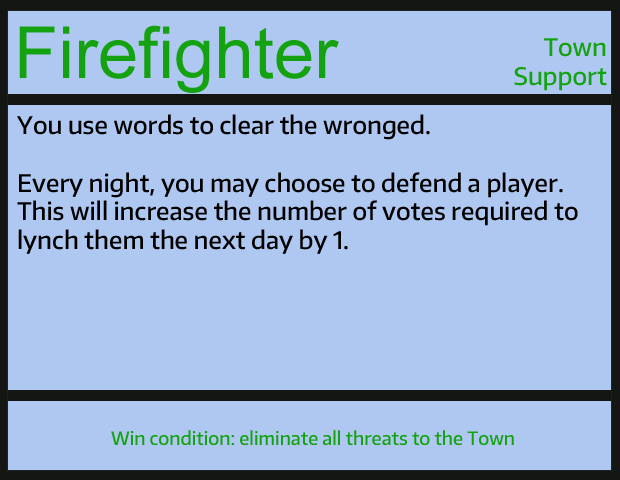
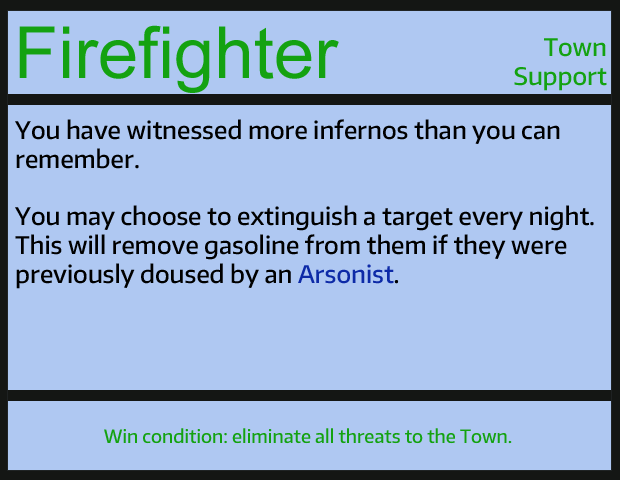
[re/factor] roles and changes

Changed region(s): [[0.0, 0.25, 0.95, 0.5938], [0.1532, 0.875, 0.8274, 0.9375]]

diff --git a/roles/arsonist/game_commands/douse.js b/roles/arsonist/game_commands/douse.js
@@ -10,36 +10,36 @@ module.exports = function (game, message, params) {
   // Run checks, etc
 
   if (params[0] === undefined) {
-    message.channel.send(":x: Wrong syntax! Please use `" + config["command-prefix"] + "attack <alphabet/username/nobody>` instead!");
+    message.channel.send(":x: Wrong syntax! Please use `" + config["command-prefix"] + "douse <alphabet/username/nobody>` instead!");
     return null;
   };
 
   var to = game.getPlayerMatch(params[0]);
 
-  actions.delete(x => x.from === message.author.id && x.identifier === "serial_killer/attack");
+  actions.delete(x => x.from === message.author.id && (x.identifier === "arsonist/douse" || x.identifier === "arsonist/ignite"));
 
   if (to.score > 0.7 || params[0].toLowerCase() === "nobody") {
-    message.channel.send(":knife: You have decided not to attack anyone tonight.");
+    message.channel.send(":oil: You have decided not to douse anyone tonight nor ignite.");
     return null;
   };
 
   to = to.player;
 
   if (!to.isAlive()) {
-    message.channel.send(":x: You cannot attack a dead player!" + rs.misc.sarcasm(true));
+    message.channel.send(":x: You cannot douse a dead player!" + rs.misc.sarcasm(true));
     return null;
   };
 
   if (to.id === message.author.id) {
 
-    message.channel.send(":x: You cannot attack yourself!" + rs.misc.sarcasm(true));
+    message.channel.send(":x: You cannot douse yourself!" + rs.misc.sarcasm(true));
 
     return null;
 
   } else {
 
-    game.addAction("serial_killer/attack", ["cycle"], {
-      name: "SK-attack",
+    game.addAction("arsonist/douse", ["cycle"], {
+      name: "Arsonist-douse",
       expiry: 1,
       from: message.author.id,
       to: to.id
@@ -49,7 +49,7 @@ module.exports = function (game, message, params) {
 
   };
 
-  message.channel.send(":knife: You have decided to attack **" + mention + "** tonight.");
+  message.channel.send(":oil: You have decided to douse **" + mention + "** tonight.");
 
 };
 

diff --git a/roles/firefighter/game_commands/extinguish.js b/roles/firefighter/game_commands/extinguish.js
@@ -1,0 +1,38 @@
+var rs = require("../../../rolesystem/rolesystem.js");
+
+module.exports = function (game, message, params) {
+
+  var actions = game.actions;
+
+  // Run checks, etc
+
+  if (params[0] === undefined) {
+    message.channel.send(":x: Wrong syntax! Please use `" + config["command-prefix"] + "extinguish <alphabet/username/nobody>` instead!");
+    return null;
+  };
+
+  var to = game.getPlayerMatch(params[0]);
+
+  actions.delete(x => x.from === message.author.id && x.identifier === "firefighter/extinguish");
+
+  if (to.score > 0.7 || params[0].toLowerCase() === "nobody") {
+    message.channel.send(":fire_engine: You have decided to extinguish nobody tonight.");
+    return null;
+  };
+
+  to = to.player;
+
+  if (to.id === message.author.id) {
+    message.channel.send(":fire_engine: You have decided to extinguish **yourself** tonight.");
+  } else {
+    message.channel.send(":fire_engine: You have decided to extinguish **" + to.getDisplayName() + "** tonight.")
+  };
+
+  game.addAction("firefighter/extinguish", ["cycle"], {
+    name: "Firefighter-extinguish",
+    expiry: 1,
+    from: message.author.id,
+    to: to.id
+  });
+
+};

diff --git a/roles/doctor/game_commands/heal.js b/roles/doctor/game_commands/heal.js
@@ -15,8 +15,9 @@ module.exports = function (game, message, params) {
 
   var to = game.getPlayerMatch(params[0]);
 
-  if (to.score > 3 || params[0].toLowerCase() === "nobody") {
-    actions.delete(x => x.from === message.author.id && (x.identifier === "doctor/doc_protect" || x.identifier === "doctor/doc_protect_self"));
+  actions.delete(x => x.from === message.author.id && (x.identifier === "doctor/doc_protect" || x.identifier === "doctor/doc_protect_self"));
+
+  if (to.score > 0.7 || params[0].toLowerCase() === "nobody") {
     message.channel.send(":syringe: You have decided to protect nobody tonight.");
     return null;
   };
@@ -27,8 +28,6 @@ module.exports = function (game, message, params) {
     message.channel.send(":x: You cannot heal a dead player!" + rs.misc.sarcasm(true));
     return null;
   };
-
-  actions.delete(x => x.from === message.author.id && (x.identifier === "doctor/doc_protect" || x.identifier === "doctor/doc_protect_self"));
 
   if (to.id === message.author.id) {
     // Do stuff

diff --git a/roles/arsonist/game_commands/ignite.js b/roles/arsonist/game_commands/ignite.js
@@ -1,0 +1,33 @@
+// Register heal
+
+var rs = require("../../../rolesystem/rolesystem.js");
+
+module.exports = function (game, message, params) {
+
+  var actions = game.actions;
+  var config = game.config;
+
+  actions.delete(x => x.from === message.author.id && (x.identifier === "arsonist/douse" || x.identifier === "arsonist/ignite"));
+
+  message.channel.send(":fire: You have decided to ignite tonight.");
+
+  /*Ignition runs at a much higher priority
+  - this is to allow Firefighter to possibly extinguish target
+  first */
+  
+  game.addAction("arsonist/ignite", ["cycle"], {
+    name: "Arsonist-ignition",
+    expiry: 1,
+    from: message.author.id,
+    to: message.author.id,
+    priority: 8
+  });
+
+};
+
+module.exports.ALLOW_NONSPECIFIC = false;
+module.exports.PRIVATE_ONLY = true;
+module.exports.DEAD_CANNOT_USE = true;
+module.exports.ALIVE_CANNOT_USE = false;
+module.exports.DISALLOW_DAY = true;
+module.exports.DISALLOW_NIGHT = false;

diff --git a/roles/arsonist/actionables/ignite.js b/roles/arsonist/actionables/ignite.js
@@ -1,0 +1,26 @@
+var rs = require("../../../rolesystem/rolesystem.js");
+
+module.exports = function (actionable, game, params) {
+
+  // Self-visit
+  game.execute("visit", {visitor: actionable.from,
+    target: actionable.to,
+    priority: actionable.priority,
+    reason: "Arsonist-ignition"});
+
+  // Get all ignited players
+  var doused = game.findAll(x => x.misc.doused === true && x.isAlive());
+
+  for (var i = 0; i < doused.length; i++) {
+
+    rs.prototypes.unstoppableAttack.reason = "__annihilated__ in an Arsonist's fire";
+    var outcome = rs.prototypes.unstoppableAttack({to: doused[i].identifier, from: actionable.from, tags:["astral"]}, game, params, true);
+
+    if (!outcome) {
+      game.addMessage(from, ":exclamation: " + doused[i].getDisplayName() + " survived the fire!");
+    };
+
+  };
+
+
+};

diff --git a/roles/firefighter/actionables/extinguish.js b/roles/firefighter/actionables/extinguish.js
@@ -1,0 +1,24 @@
+var rs = require("../../../rolesystem/rolesystem.js");
+
+module.exports = function (actionable, game, params) {
+
+  // Send visit
+  game.execute("visit", {visitor: actionable.from,
+    target: actionable.to,
+    priority: actionable.priority,
+    reason: "Arsonist-ignition"});
+
+  // Remove douse
+  var extinguisher = game.getPlayerByIdentifier(actionable.from);
+  var target = game.getPlayerByIdentifier(actionable.to);
+
+  if (target.misc.doused === true) {
+
+    target.misc.doused = false;
+
+    // Is doused
+    game.addMessage(extinguisher, ":exclamation: You managed to remove gasoline from your target!");
+    game.addMessage(target, ":exclamation: Someone extinguished you last night and removed gasoline from you!");
+  };
+
+};

diff --git a/roles/doctor/general/routines.js b/roles/doctor/general/routines.js
@@ -12,7 +12,7 @@ module.exports = function (player) {
   // Nighttime actions
   var channel = player.getPrivateChannel();
 
-  channel.send(":pill: You may choose to heal a player tonight.\n\nYou have __" + player.misc.doc_self_heals + "__ self-heal" + auxils.vocab("s", player.misc.doc_self_heals) + " left.\n\nUse `" + config["command-prefix"] + "heal <alphabet/name>` to select your target.");
+  channel.send(":pill: You may choose to heal a player tonight.\n\nYou have __" + player.misc.doc_self_heals + "__ self-heal" + auxils.vocab("s", player.misc.doc_self_heals) + " left.\n\nUse `" + config["command-prefix"] + "heal <alphabet/name/nobody>` to select your target.");
 
 };
 

diff --git a/rolesystem/rolesystem_prototypes/powerfulAttack.js b/rolesystem/rolesystem_prototypes/powerfulAttack.js
@@ -6,7 +6,7 @@ module.exports = function (actionable, game, params, astral=false) {
     game.execute("attacked", {attacker: actionable.from,
       target: actionable.to,
       priority: actionable.priority,
-      strength: 1,
+      strength: 2,
       reason: module.exports.reason,
       secondary_reason: module.exports.secondary_reason});
 
@@ -19,7 +19,7 @@ module.exports = function (actionable, game, params, astral=false) {
 
   var stat = attacked.getStat("basic-defense", Math.max);
 
-  if (stat < 1) {
+  if (stat < 2) {
     // Kill the player
     game.kill(attacked, module.exports.reason, module.exports.secondary_reason);
     return true;

diff --git a/rolesystem/rolesystem_prototypes/unstoppableAttack.js b/rolesystem/rolesystem_prototypes/unstoppableAttack.js
@@ -6,7 +6,7 @@ module.exports = function (actionable, game, params, astral=false) {
     game.execute("attacked", {attacker: actionable.from,
       target: actionable.to,
       priority: actionable.priority,
-      strength: 1,
+      strength: 3,
       reason: module.exports.reason,
       secondary_reason: module.exports.secondary_reason});
 
@@ -19,7 +19,7 @@ module.exports = function (actionable, game, params, astral=false) {
 
   var stat = attacked.getStat("basic-defense", Math.max);
 
-  if (stat < 1) {
+  if (stat < 3) {
     // Kill the player
     game.kill(attacked, module.exports.reason, module.exports.secondary_reason);
     return true;

diff --git a/roles/arsonist/general/routines.js b/roles/arsonist/general/routines.js
@@ -12,7 +12,7 @@ module.exports = function (player) {
   // Nighttime actions
   var channel = player.getPrivateChannel();
 
-  channel.send(":oil: You may choose to douse a player tonight.\n\nUse `" + config["command-prefix"] + "douse <alphabet/name>` to select your target.\n\nAlternatively, you may ignite with `" + config["command-prefix"] + "ignite`");
+  channel.send(":oil: You may choose to douse a player tonight.\n\nUse `" + config["command-prefix"] + "douse <alphabet/name/nobody>` to select your target.\n\nAlternatively, you may ignite with `" + config["command-prefix"] + "ignite`");
 
 };
 

diff --git a/roles/firefighter/general/routines.js b/roles/firefighter/general/routines.js
@@ -12,7 +12,7 @@ module.exports = function (player) {
   // Nighttime actions
   var channel = player.getPrivateChannel();
 
-  channel.send(":oil: You may choose to extinguish a player tonight.\n\nUse `" + config["command-prefix"] + "extinguish <alphabet/name>` to select your target.");
+  channel.send(":fire_engine: You may choose to extinguish a player tonight.\n\nUse `" + config["command-prefix"] + "extinguish <alphabet/name/nobody>` to select your target.");
 
 };
 

diff --git a/roles/serial_killer/general/routines.js b/roles/serial_killer/general/routines.js
@@ -12,7 +12,7 @@ module.exports = function (player) {
   // Nighttime actions
   var channel = player.getPrivateChannel();
 
-  channel.send(":knife: You may attack a player tonight.\n\nUse `" + config["command-prefix"] + "attack <alphabet/name>` to select your target.");
+  channel.send(":knife: You may attack a player tonight.\n\nUse `" + config["command-prefix"] + "attack <alphabet/name/nobody>` to select your target.");
 
 };
 
